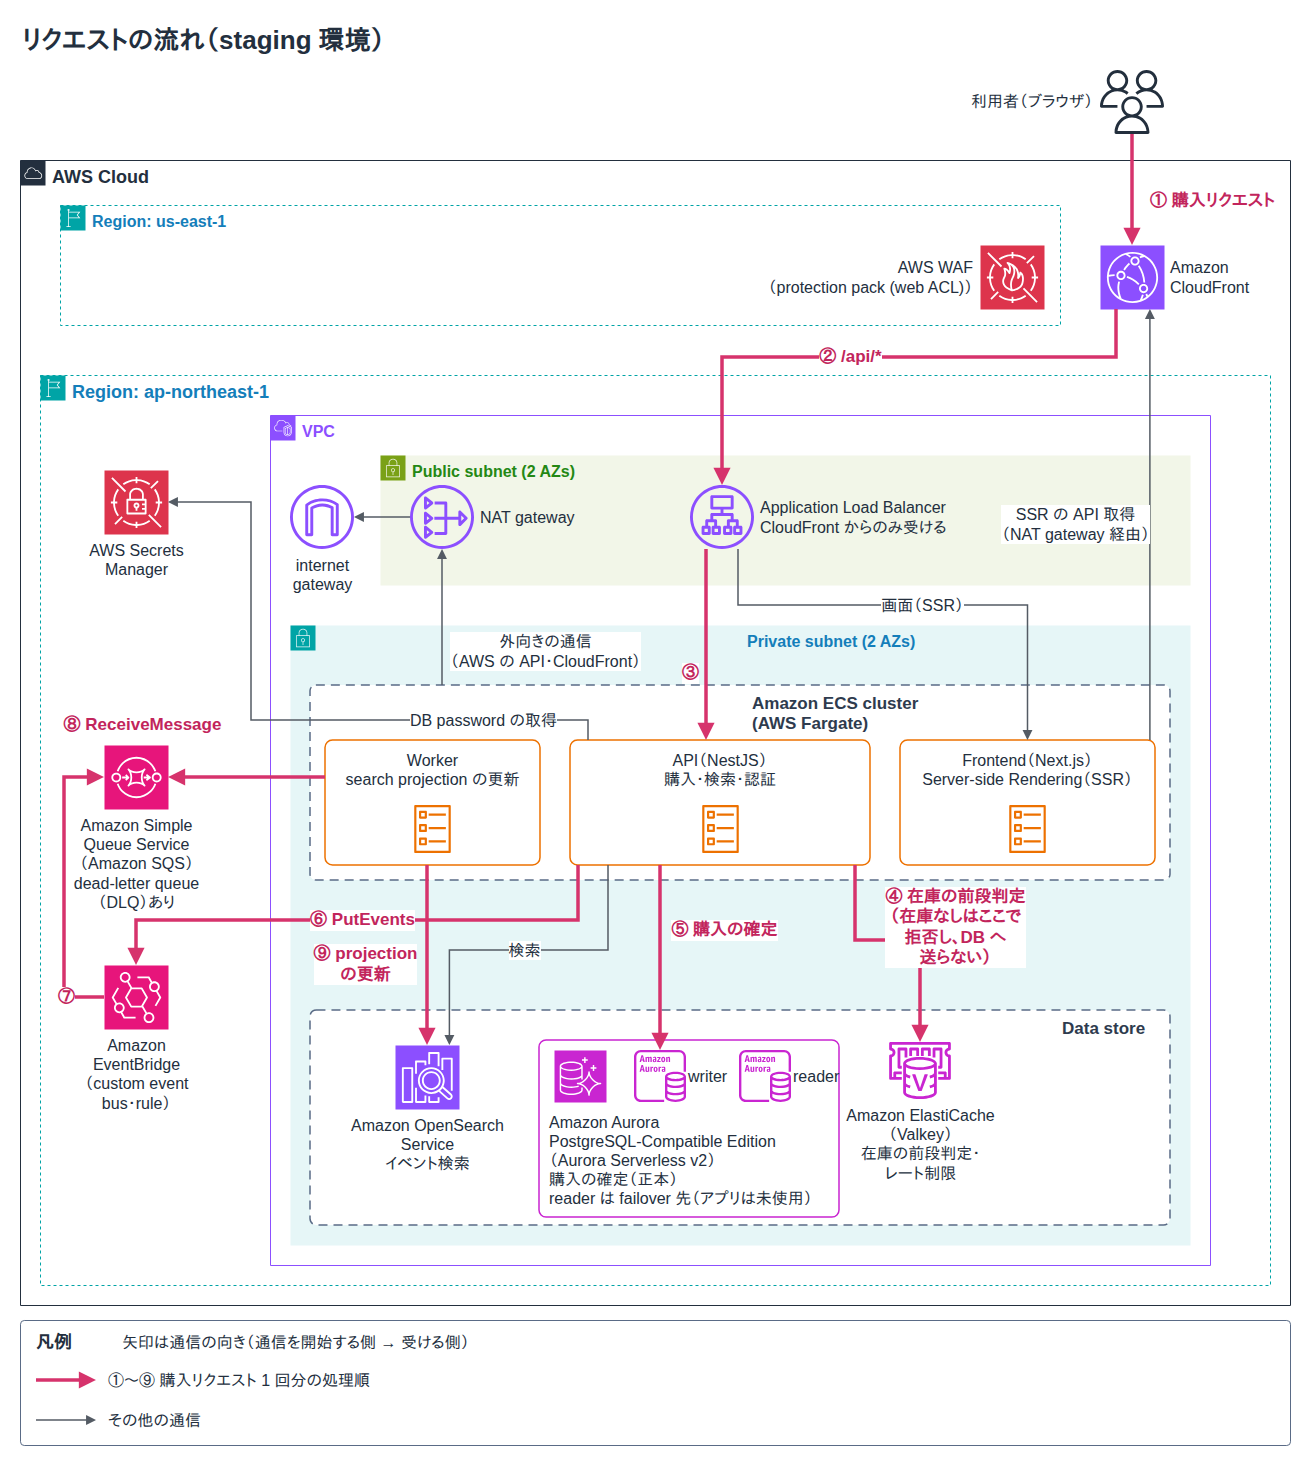
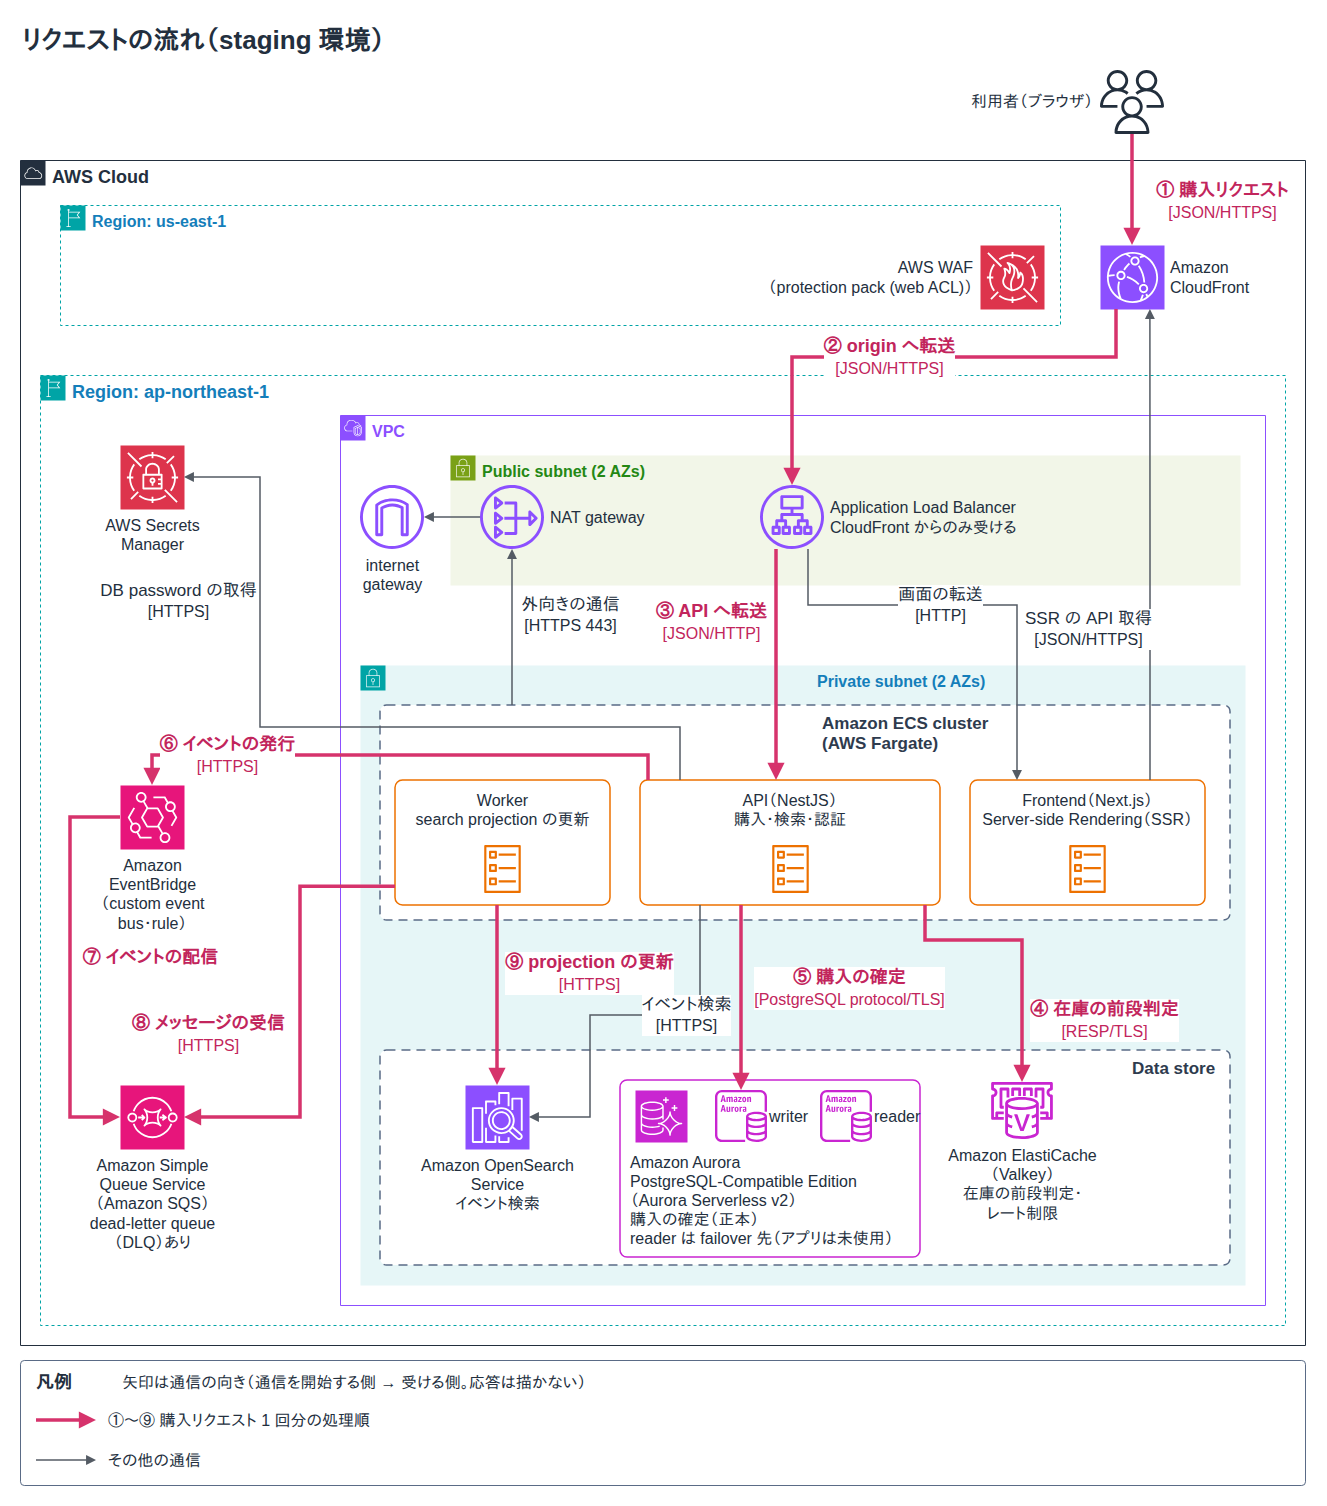
docs: 構成図の線のラベルを C4 の形にし、図 1 の ⑥ と ⑨ の交差を解消する (#616)
- 図 1: 全線のラベルを 1 行目に目的、2 行目に [技術] の形にし、パスを外す
  （④ は [RESP/TLS]、⑤ は [PostgreSQL protocol/TLS]、⑦ は目的だけ）
- 図 1: 左列を Secrets Manager / EventBridge / SQS の順にし、⑥ を Worker の上で通して
  ⑥ と ⑨ の交差をなくす。「イベント検索」は OpenSearch の右から入れて ⑨ との近接をなくす
- 図 2: デプロイに update-service、state の線に Terraform backend を書き、
  docker push の線を AWS Cloud 枠から離す
- 2 枚とも凡例の矢印の注記に「応答は描かない」を足す
- README と staging-environment.md の図 1 の下に RESP の正式名を書く

Claude-Session: https://claude.ai/code/session_01CPLfa4xjrZJtzQqEqAQjMq

Changed region(s): [[0.0, 0.0307, 0.9688, 0.9823], [0.0312, 0.0, 0.2812, 0.0614], [0.0, 0.0921, 0.1875, 0.1842]]

diff --git a/README.md b/README.md
@@ -9,6 +9,8 @@
 
 ![図 1: ブラウザから CloudFront・AWS WAF・ALB を経て ECS Fargate 上の API が ElastiCache (Valkey) で在庫を前段判定して Aurora PostgreSQL で購入を確定し、EventBridge・SQS・Worker を経て OpenSearch へ反映する購入リクエストの流れ](docs/architecture/images/request-flow.png)
 
+`RESP` は REdis Serialization Protocol（Valkey のクライアントとサーバーの間のプロトコル）です。
+
 図 2: デプロイ・運用・監視
 
 ![図 2: GitHub Actions から OpenID Connect で AWS に認証する Terraform・デプロイ、Amazon S3 の Terraform state と Amazon ECR、CloudWatch・X-Ray・Synthetics canary の監視と Amazon SNS のメール通知の構成](docs/architecture/images/operations.png)
